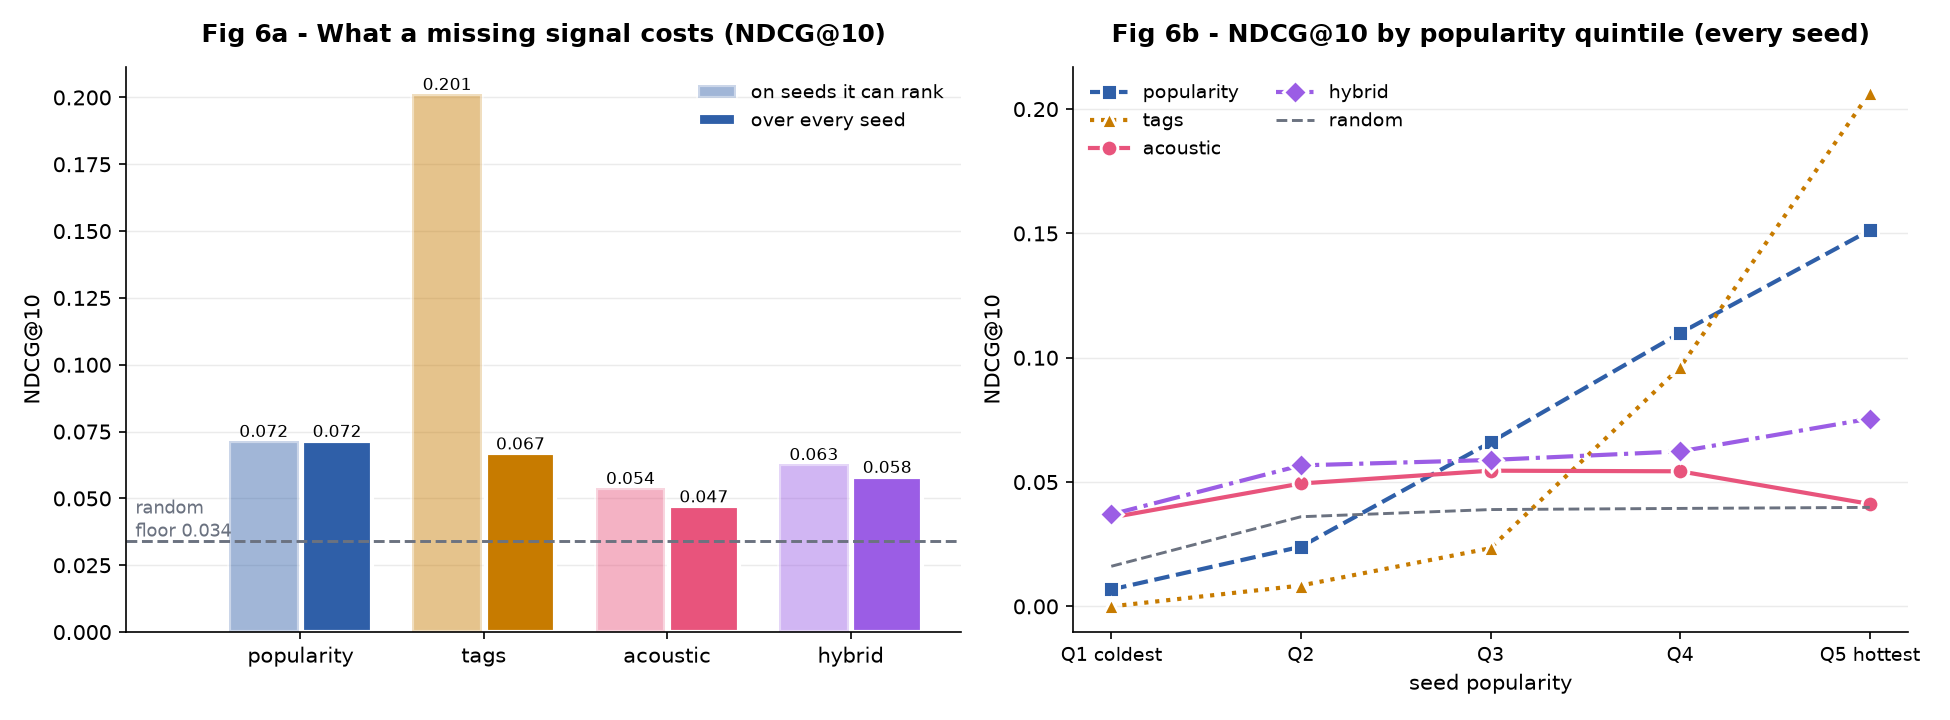
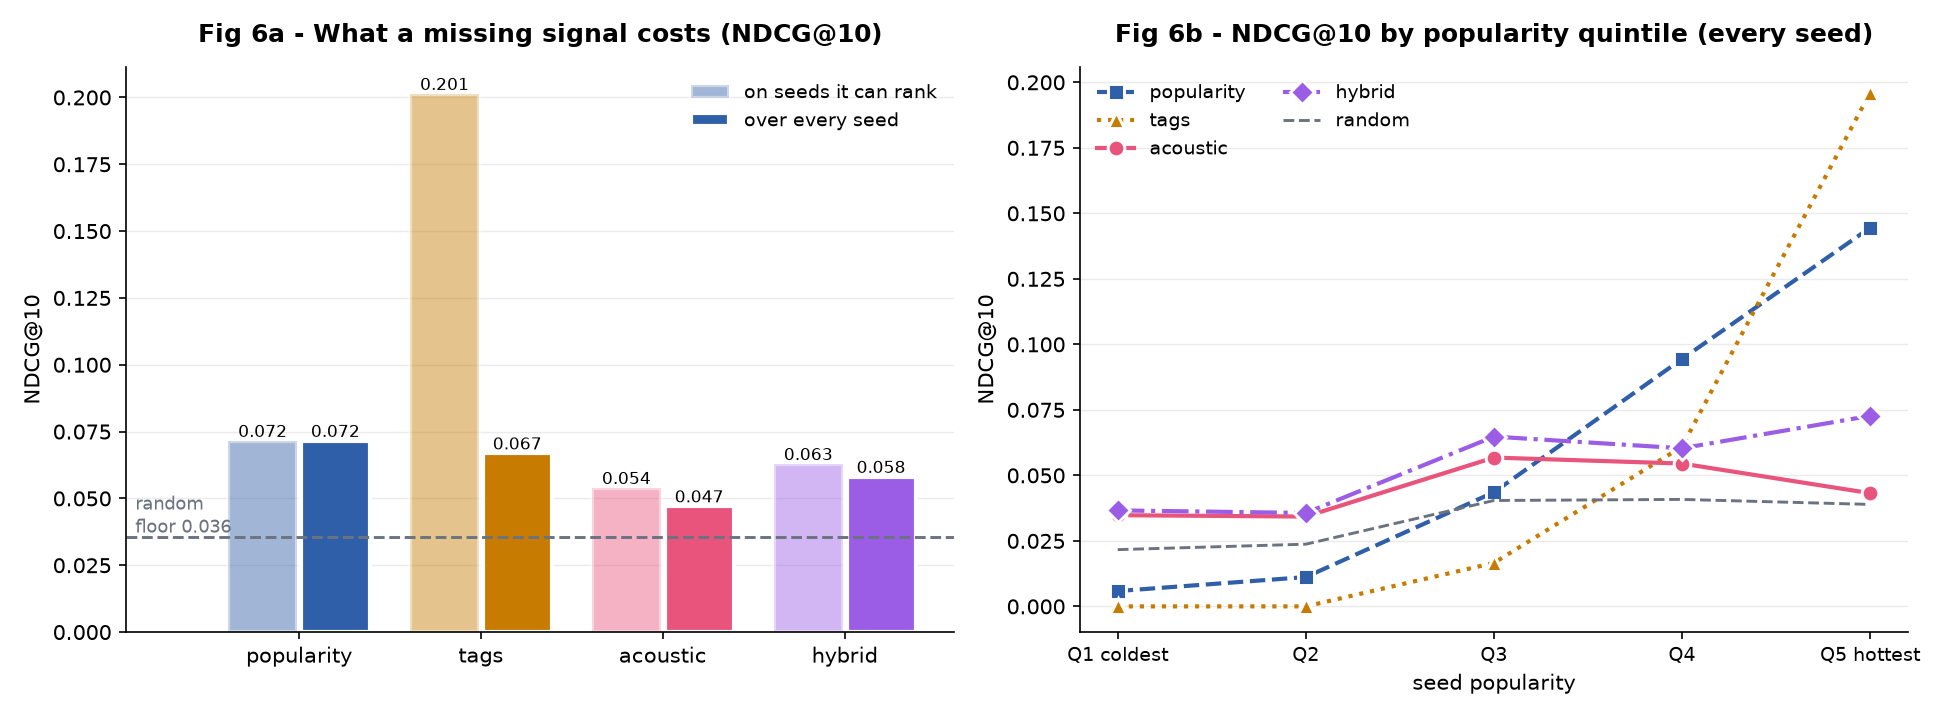
Rerun the benchmark on library-wide strata and an averaged floor
Applies the two fixes to the benchmark itself and regenerates the committed
results. The headline table is unchanged -- neither fix touches it -- and every
cold-end conclusion survives, two of them in stronger form.

Quintiles now come from Library.quintile instead of a qcut over the evaluable
seeds, and the random policy is averaged over 20 draws rather than sampled once
(--random-repeats). The second was not optional. Switching the floor to a
per-seed generator moved Q1's random NDCG from 0.016 to 0.029, which is not a
bug in either draw -- it is a single sample of 110 evaluable seeds, and it
swings by about +/-0.013. The project's central cold-tail claim is that
popularity scores below that floor, a gap of roughly 0.02. Supporting it with a
number that moves by two thirds of the gap under a different draw is not
support. Averaged, the floor reproduces to +/-0.001 across independent seeds
(Q1: 0.0197 / 0.0209 / 0.0217 at seeds 0, 7, 42). The full run costs 4.8s.

What moved, by quintile:

  random      0.022  0.024  0.040  0.041  0.039
  popularity  0.006  0.011  0.044  0.094  0.144
  tags        0.000  0.000  0.017  0.061  0.196
  acoustic    0.035  0.034  0.057  0.055  0.043
  hybrid      0.037  0.036  0.065  0.060  0.073

The tag policy now scores exactly zero in the coldest *two* quintiles rather
than one -- 0% coverage in both. Ranking by popularity now falls below random
twice, in Q1 and Q2, where before only Q1 showed it. Acoustic and hybrid still
[…]

diff --git a/scripts/evaluate.py b/scripts/evaluate.py
@@ -56,11 +56,21 @@ sys.path.insert(0, str(Path(__file__).resolve().parents[1] / "src"))
 from kpoprec import config  # noqa: E402
 from kpoprec.io import load_songs  # noqa: E402
 from kpoprec.metrics import METRIC_NAMES, evaluate_ranking, zero_metrics  # noqa: E402
-from kpoprec.normalize import song_key  # noqa: E402
-from kpoprec.recommend import POLICIES, Library, can_serve, score, top_k  # noqa: E402
+from kpoprec.pooling import evaluable_seeds  # noqa: E402
+from kpoprec.recommend import (  # noqa: E402
+    POLICIES,
+    QUINTILE_LABELS,
+    Library,
+    can_serve,
+    policy_rng,
+    score,
+    top_k,
+)
 
 KS = (5, 10, 20, 50)
 HEADLINE_K = 10
+# Repeated random draws must not collide with each other's generator streams.
+_DRAW_STRIDE = 1_000_003
 # Validated with the dataviz palette checker (light surface, categorical):
 # lightness band, chroma floor, CVD separation, normal-vision floor, contrast.
 SERIES_COLORS = {
@@ -85,28 +95,54 @@ def style(ax, title="", xlabel="", ylabel="") -> None:
 
 # ── Evaluation ──────────────────────────────────────────────────────────────
 
-def run(lib: Library, songs: list[dict], gt: dict[str, list[str]], seed: int) -> pd.DataFrame:
+def _average_draws(policy, lib, i, pos, pos_blind, same, tiebreak, seed, draws):
+    """Score one seed under one policy, averaged over ``draws`` random draws.
+
+    Deterministic policies use a single draw and are unaffected; only ``random``
+    asks for more. Returns metrics as shipped, metrics with the seed's own
+    artist removed from both ranking and labels, and the same-artist share of
+    the top ``HEADLINE_K``.
+    """
+    per_k = {k: dict.fromkeys(METRIC_NAMES, 0.0) for k in KS}
+    blind_per_k = {k: dict.fromkeys(METRIC_NAMES, 0.0) for k in KS}
+    same_in_top = 0.0
+
+    for d in range(draws):
+        scores = score(policy, lib, i, policy_rng(seed + d * _DRAW_STRIDE, i))
+        ranked = top_k(scores, max(KS), tiebreak)
+        same_in_top += int(same[ranked[:HEADLINE_K]].sum())
+        for k in KS:
+            for name, v in evaluate_ranking(ranked, pos, k).items():
+                per_k[k][name] += v
+        if pos_blind:
+            blind_scores = scores.copy()
+            blind_scores[same] = -np.inf
+            blind_ranked = top_k(blind_scores, max(KS), tiebreak)
+            for k in KS:
+                for name, v in evaluate_ranking(blind_ranked, pos_blind, k).items():
+                    blind_per_k[k][name] += v
+
+    for table in (per_k, blind_per_k):
+        for k in KS:
+            for name in METRIC_NAMES:
+                table[k][name] /= draws
+    return per_k, blind_per_k, same_in_top / draws
+
+
+def run(lib: Library, songs: list[dict], gt: dict[str, list[str]], seed: int,
+        repeats: int = 1) -> pd.DataFrame:
     """Score every policy on every evaluable seed. One row per seed per policy."""
-    index = {song_key(s): i for i, s in enumerate(songs)}
     rng = np.random.default_rng(seed)
     # One fixed permutation for the whole run: ties resolve randomly but
     # reproducibly, instead of inheriting the library's collection order.
     tiebreak = rng.permutation(lib.n)
 
-    evaluable = []
-    for key, positives in gt.items():
-        i = index.get(key)
-        if i is None:
-            continue
-        pos = {index[p] for p in positives if p in index and index[p] != i}
-        if pos:
-            evaluable.append((i, pos))
-
+    evaluable = evaluable_seeds(gt, songs)
     if not evaluable:
         sys.exit("[FATAL] no seed has an in-library positive; nothing to evaluate")
 
     rows = []
-    for i, pos in evaluable:
+    for i, pos in sorted(evaluable.items()):
         same = lib.same_artist(i)
         # The artist-blind variant drops the seed's own artist from both sides.
         # A seed whose every positive is same-artist has nothing left to score,
@@ -115,17 +151,20 @@ def run(lib: Library, songs: list[dict], gt: dict[str, list[str]], seed: int) ->
         for policy in POLICIES:
             served = can_serve(policy, lib, i)
             if served:
-                scores = score(policy, lib, i, rng)
-                ranked = top_k(scores, max(KS), tiebreak)
-                per_k = {k: evaluate_ranking(ranked, pos, k) for k in KS}
-                blind_scores = scores.copy()
-                blind_scores[same] = -np.inf
-                blind_ranked = top_k(blind_scores, max(KS), tiebreak)
-                same_in_top = int(same[ranked[:HEADLINE_K]].sum())
+                # The random policy is a distribution, not a ranking, and one
+                # draw of it is a noisy estimate of the floor -- noisiest in Q1,
+                # where only 110 seeds are evaluable. Since the floor is what
+                # every other policy is read against, and the project's central
+                # cold-tail claim is "popularity scores below it", it is
+                # averaged over repeats rather than sampled once.
+                draws = repeats if policy == "random" else 1
+                per_k, blind_per_k, same_in_top = _average_draws(
+                    policy, lib, i, pos, pos_blind, same, tiebreak, seed, draws
+                )
             else:
                 per_k = {k: zero_metrics() for k in KS}
-                blind_ranked = None
-                same_in_top = 0
+                blind_per_k = {k: zero_metrics() for k in KS}
+                same_in_top = 0.0
 
             row = {
                 "seed_index": i,
@@ -140,25 +179,22 @@ def run(lib: Library, songs: list[dict], gt: dict[str, list[str]], seed: int) ->
                 for name, v in m.items():
                     row[f"{name}@{k}"] = v
             if pos_blind:
-                blind = (
-                    {k: evaluate_ranking(blind_ranked, pos_blind, k) for k in KS}
-                    if blind_ranked is not None
-                    else {k: zero_metrics() for k in KS}
-                )
-                for k, m in blind.items():
+                for k, m in blind_per_k.items():
                     for name, v in m.items():
                         row[f"blind_{name}@{k}"] = v
             rows.append(row)
 
     df = pd.DataFrame(rows)
-    # Quintiles are assigned over seeds, not policies, so every policy is judged
-    # on the same partition of the catalogue.
-    seeds = df[df.policy == POLICIES[0]][["seed_index", "listeners"]].copy()
-    seeds["quintile"] = pd.qcut(
-        seeds["listeners"].rank(method="first"), 5,
-        labels=["Q1 coldest", "Q2", "Q3", "Q4", "Q5 hottest"],
+    # Quintiles come from the library, not from the evaluable seeds. Cutting
+    # them over the seeds that happen to have labels would make Q1 mean "the
+    # coldest fifth of the labelled tracks", which is a warmer set than the
+    # coldest fifth of the catalogue -- ground truth reaches only 43% of it.
+    # Every policy is then judged on the same, catalogue-wide partition.
+    df["quintile"] = pd.Categorical(
+        [QUINTILE_LABELS[q] for q in lib.quintile[df["seed_index"].to_numpy()]],
+        categories=QUINTILE_LABELS, ordered=True,
     )
-    return df.merge(seeds[["seed_index", "quintile"]], on="seed_index", how="left")
+    return df
 
 
 def headline(df: pd.DataFrame, k: int, prefix: str = "") -> pd.DataFrame:
@@ -323,10 +359,14 @@ def report(df: pd.DataFrame, head: pd.DataFrame, blind: pd.DataFrame, k: int,
         md.append(f"| `{policy}` | " + " | ".join(f"{v:.0%}" for v in cov.loc[policy]) + " |")
 
     md += [
-        "\n> Q1 and Q2 carry few labels per seed and are flagged unreliable in",
-        "> `gt_diagnostics.md` -- 43% and 64% of their seeds have any positive at all.",
-        "> Read the cold end as indicative, not decisive. That limit is a property of",
-        "> the CF labels, not of the policies being compared.\n",
+        "\n> Quintiles are cut over the whole library, so Q1 is the coldest fifth of",
+        "> the catalogue rather than the coldest fifth of the tracks that have labels.",
+        "> The two differ: ground truth reaches 43% of Q1 and 64% of Q2, and the",
+        "> seeds it misses never appear in the table above at all. So the cold end is",
+        "> not merely measured with few labels -- it is measured on the most popular",
+        "> part of itself. Read it as indicative, not decisive. That limit belongs to",
+        "> the CF labels, not to the policies being compared, and the only way past it",
+        "> is human judgement sampled where the labels are missing: `make pool`.\n",
     ]
     return md
 
@@ -340,6 +380,8 @@ def main() -> None:
     ap.add_argument("--figdir", type=Path, default=config.FIGURES_DIR / "sample")
     ap.add_argument("--k", type=int, default=HEADLINE_K)
     ap.add_argument("--seed", type=int, default=0, help="RNG seed for the random policy")
+    ap.add_argument("--random-repeats", type=int, default=20,
+                    help="draws to average the random floor over; 1 reproduces a single sample")
     args = ap.parse_args()
 
     if not args.ground_truth.exists():
@@ -353,7 +395,7 @@ def main() -> None:
     print(f"[load] {len(songs)} tracks, {len(gt)} ground-truth seeds")
 
     lib = Library(songs)
-    df = run(lib, songs, gt, args.seed)
+    df = run(lib, songs, gt, args.seed, args.random_repeats)
     head = headline(df, args.k)
 
     n_seeds = int(head["n_seeds"].iloc[0])

diff --git a/README.md b/README.md
@@ -79,7 +79,7 @@ difference as an empty result rather than a poor one.
 
 | Policy | Can rank | NDCG@10 where it can | NDCG@10 over every seed |
 |---|---:|---:|---:|
-| `random` | 100% | 0.034 | 0.034 |
+| `random` | 100% | 0.036 | 0.036 |
 | `popularity` | 100% | 0.072 | **0.072** |
 | `tags` | 33% | **0.201** | 0.067 |
 | `acoustic` | 87% | 0.054 | 0.047 |
@@ -100,7 +100,7 @@ rather than quoting the K that flatters the conclusion:
 | `tags` | **0.076** | 0.067 | 0.062 | 0.058 |
 | `hybrid` | 0.062 | 0.058 | 0.056 | 0.059 |
 | `acoustic` | 0.048 | 0.047 | 0.045 | 0.047 |
-| `random` | 0.034 | 0.034 | 0.036 | 0.041 |
+| `random` | 0.036 | 0.036 | 0.036 | 0.041 |
 
 At K=5 tag overlap does beat the baseline, 0.076 against 0.062. It loses the
 lead by K=10 and keeps losing it: tags concentrate their hits at the very top
@@ -111,9 +111,9 @@ policy "wins" therefore depends on how long a queue the product actually shows
 That measurement settled a product question. The app used to hand back 50
 tracks; it now hands back 20. A shorter queue is not a better ranking — it is
 the same list, truncated — but the recommender's edge is concentrated at the
-top and thins out with depth. Per-slot precision runs 1.80x random at 5 and
-only 1.32x by 50, while the chance of hitting anything the listener likes
-climbs from 24% to 76%. Twenty keeps a 56% hit rate at 1.48x random, which is
+top and thins out with depth. Per-slot precision runs 1.72x random at 5 and
+only 1.35x by 50, while the chance of hitting anything the listener likes
+climbs from 24% to 76%. Twenty keeps a 56% hit rate at 1.52x random, which is
 the better end of that trade.
 
 ![Ranking quality](figures/fig6_ranking_quality.png)
@@ -133,7 +133,7 @@ product to make a benchmark easier — so the benchmark reports both readings:
 
 | Policy | Same-artist share of top-10 | NDCG@10 as shipped | NDCG@10 artist-blind |
 |---|---:|---:|---:|
-| `random` | 1.4% | 0.034 | 0.034 |
+| `random` | 1.4% | 0.036 | 0.035 |
 | `popularity` | 2.5% | 0.072 | 0.071 |
 | `tags` | **26.6%** | 0.067 | 0.070 |
 | `acoustic` | 2.5% | 0.047 | 0.045 |
@@ -149,22 +149,33 @@ where the labels are dense. Split by popularity, the ordering inverts:
 
 | Policy | Q1 coldest | Q2 | Q3 | Q4 | Q5 hottest |
 |---|---:|---:|---:|---:|---:|
-| `random` | 0.016 | 0.036 | 0.039 | 0.039 | 0.040 |
-| `popularity` | 0.007 | 0.024 | 0.066 | 0.110 | 0.151 |
-| `tags` | **0.000** | 0.008 | 0.023 | 0.096 | **0.207** |
-| `acoustic` | 0.036 | 0.049 | 0.055 | 0.054 | 0.041 |
-| `hybrid` | **0.037** | 0.057 | 0.059 | 0.062 | 0.075 |
+| `random` | 0.022 | 0.024 | 0.040 | 0.041 | 0.039 |
+| `popularity` | 0.006 | 0.011 | 0.044 | 0.094 | 0.144 |
+| `tags` | **0.000** | **0.000** | 0.017 | 0.061 | **0.196** |
+| `acoustic` | 0.035 | 0.034 | 0.057 | 0.055 | 0.043 |
+| `hybrid` | **0.037** | 0.036 | 0.065 | 0.060 | 0.073 |
+
+Quintiles are cut over the whole 1,267-track library, not over the 1,021 seeds
+that happen to have labels. The distinction matters more than it sounds: label
+coverage runs 43% / 63% / 100% / 99% / 98% across the five, so cutting over the
+labelled subset would quietly redefine Q1 as *the coldest fifth of the tracks
+Last.fm could describe* — a warmer population than the one the project is about,
+and one that flatters every method in the table.
 
 Three things happen at the cold end, and they are the whole argument:
 
-1. **The tag policy scores exactly zero in Q1** — not weak, absent. It can rank
-   0% of the coldest seeds, because none of them has a discriminative tag.
-2. **Ranking by popularity falls below random** in Q1 (0.007 against 0.016).
-   For an obscure seed the relevant tracks are themselves obscure, so a global
-   popularity ordering is actively worse than chance.
+1. **The tag policy scores exactly zero in the coldest two quintiles** — not
+   weak, absent. It can rank 0% of those seeds, because none of them has a
+   discriminative tag.
+2. **Ranking by popularity falls below random** in Q1 (0.006 against 0.022) and
+   again in Q2 (0.011 against 0.024). For an obscure seed the relevant tracks
+   are themselves obscure, so a global popularity ordering is actively worse
+   than chance. The floor here is averaged over 20 draws rather than sampled
+   once: a single draw of Q1's 110 evaluable seeds swings by ±0.013, which is
+   wider than the gap being claimed.
 3. **Only the acoustic and hybrid policies stay above the floor across the whole
-   distribution.** Their coverage is 85–89% in every quintile, because audio
-   features do not depend on anyone having listened to the track first.
+   distribution.** They can rank 80–94% of seeds in every quintile, because
+   audio features do not depend on anyone having listened to the track first.
 
 So the honest summary is not "content beats popularity" — it does not. It is
 that popularity and tags win a benchmark whose labels are 2.4× more popular

diff --git a/reports/eval_summary.md b/reports/eval_summary.md
@@ -11,7 +11,7 @@
 - Candidate pool: the whole library, 1267 tracks, minus the seed itself
 - Positives per seed: median **49**
 - Reported at K = 10; the full K sweep is in `eval_by_k.csv`
-- Random Precision@10 floor: **0.034**
+- Random Precision@10 floor: **0.035**
 - Deterministic: fixed RNG seed, stable tie-breaking by library index
 
 The app's random jitter and per-tag diversity cap are excluded. Both act
@@ -21,7 +21,7 @@ after the ranking is chosen and would only add noise to the measurement.
 
 | Policy | Can rank | NDCG@10 served | NDCG@10 all seeds | Recall@10 all | HitRate@10 all |
 |---|---:|---:|---:|---:|---:|
-| `random` | 100% | 0.034 | **0.034** | 0.007 | 0.285 |
+| `random` | 100% | 0.036 | **0.036** | 0.008 | 0.294 |
 | `popularity` | 100% | 0.072 | **0.072** | 0.016 | 0.414 |
 | `tags` | 33% | 0.201 | **0.067** | 0.015 | 0.259 |
 | `acoustic` | 87% | 0.054 | **0.047** | 0.011 | 0.348 |
@@ -47,7 +47,7 @@ ground the labels can actually judge.
 
 | Policy | Same-artist share of top-10 | NDCG@10 as shipped | NDCG@10 artist-blind |
 |---|---:|---:|---:|
-| `random` | 1.4% | 0.034 | 0.034 |
+| `random` | 1.4% | 0.036 | 0.035 |
 | `popularity` | 2.5% | 0.072 | 0.071 |
 | `tags` | 26.6% | 0.067 | 0.070 |
 | `acoustic` | 2.5% | 0.047 | 0.045 |
@@ -66,11 +66,11 @@ Every seed counted, blind spots charged zero.
 
 | Policy | Q1 coldest | Q2 | Q3 | Q4 | Q5 hottest |
 |---|---|---|---|---|---|
-| `random` | 0.016 | 0.036 | 0.039 | 0.039 | 0.040 |
-| `popularity` | 0.007 | 0.024 | 0.066 | 0.110 | 0.151 |
-| `tags` | 0.000 | 0.008 | 0.023 | 0.096 | 0.207 |
-| `acoustic` | 0.036 | 0.049 | 0.055 | 0.054 | 0.041 |
-| `hybrid` | 0.037 | 0.057 | 0.059 | 0.062 | 0.075 |
+| `random` | 0.022 | 0.024 | 0.040 | 0.041 | 0.039 |
+| `popularity` | 0.006 | 0.011 | 0.044 | 0.094 | 0.144 |
+| `tags` | 0.000 | 0.000 | 0.017 | 0.061 | 0.196 |
+| `acoustic` | 0.035 | 0.034 | 0.057 | 0.055 | 0.043 |
+| `hybrid` | 0.037 | 0.036 | 0.065 | 0.060 | 0.073 |
 
 Share of seeds each policy can rank at all:
 
@@ -78,12 +78,16 @@ Share of seeds each policy can rank at all:
 |---|---|---|---|---|---|
 | `random` | 100% | 100% | 100% | 100% | 100% |
 | `popularity` | 100% | 100% | 100% | 100% | 100% |
-| `tags` | 0% | 3% | 15% | 50% | 97% |
-| `acoustic` | 87% | 89% | 87% | 85% | 89% |
-| `hybrid` | 87% | 92% | 92% | 92% | 100% |
+| `tags` | 0% | 0% | 8% | 33% | 94% |
+| `acoustic` | 80% | 94% | 85% | 87% | 89% |
+| `hybrid` | 80% | 94% | 91% | 92% | 99% |
 
-> Q1 and Q2 carry few labels per seed and are flagged unreliable in
-> `gt_diagnostics.md` -- 43% and 64% of their seeds have any positive at all.
-> Read the cold end as indicative, not decisive. That limit is a property of
-> the CF labels, not of the policies being compared.
+> Quintiles are cut over the whole library, so Q1 is the coldest fifth of
+> the catalogue rather than the coldest fifth of the tracks that have labels.
+> The two differ: ground truth reaches 43% of Q1 and 64% of Q2, and the
+> seeds it misses never appear in the table above at all. So the cold end is
+> not merely measured with few labels -- it is measured on the most popular
+> part of itself. Read it as indicative, not decisive. That limit belongs to
+> the CF labels, not to the policies being compared, and the only way past it
+> is human judgement sampled where the labels are missing: `make pool`.
 
